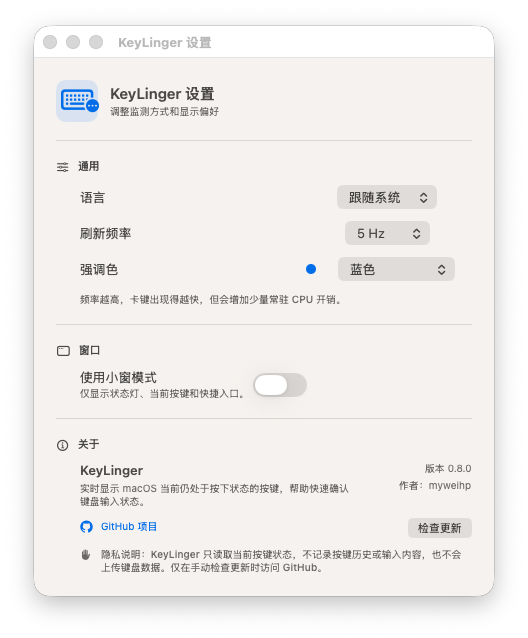
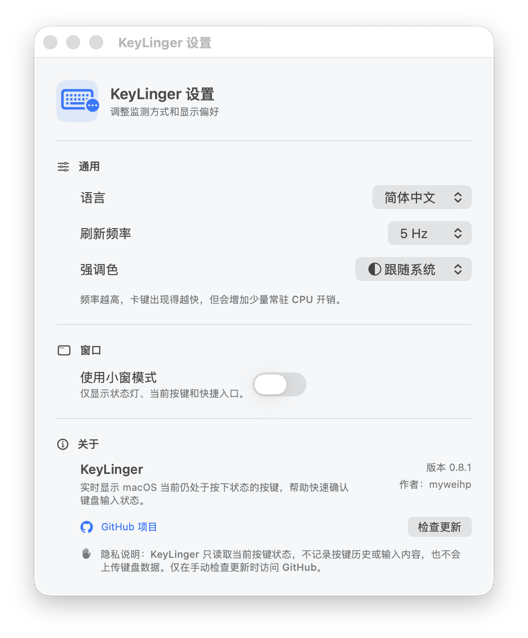
fix: restore reliable menu bar status item

diff --git a/Sources/KeyLinger/AppDelegate.swift b/Sources/KeyLinger/AppDelegate.swift
@@ -75,14 +75,16 @@ final class AppDelegate: NSObject, NSApplicationDelegate, NSWindowDelegate {
     }
 
     private func makeStatusItem() {
-        statusItem = NSStatusBar.system.statusItem(withLength: NSStatusItem.variableLength)
-        let statusImage = NSImage(
-            systemSymbolName: "keyboard",
+        statusItem = NSStatusBar.system.statusItem(withLength: NSStatusItem.squareLength)
+        statusItem.autosaveName = "io.github.myweihp.KeyLinger.status-item"
+        statusItem.button?.image = statusBarImage(
+            systemName: "keyboard",
             accessibilityDescription: "KeyLinger"
         )
-        statusImage?.isTemplate = true
-        statusItem.button?.image = statusImage
-        statusItem.button?.imagePosition = .imageLeading
+        statusItem.button?.imagePosition = .imageOnly
+        statusItem.button?.imageScaling = .scaleProportionallyDown
+        statusItem.button?.setAccessibilityLabel("KeyLinger")
+        statusItem.button?.setAccessibilityIdentifier("io.github.myweihp.KeyLinger.status-item")
 
         let menu = NSMenu()
         showMenuItem = menu.addItem(withTitle: "", action: #selector(showPanel), keyEquivalent: "s")
@@ -158,17 +160,44 @@ final class AppDelegate: NSObject, NSApplicationDelegate, NSWindowDelegate {
         guard statusItem != nil else { return }
         let language = language ?? settings.language
         let count = pressedKeyCount ?? monitor.pressedKeys.count
-        statusItem.button?.title = count == 0 ? "" : " " + String(count)
-        let statusImage = NSImage(
-            systemSymbolName: count == 0 ? "keyboard" : "keyboard.fill",
+        let statusImage = statusBarImage(
+            systemName: count == 0 ? "keyboard" : "keyboard.fill",
             accessibilityDescription: text("app.name", language: language)
         )
-        statusImage?.isTemplate = true
-        statusItem.button?.image = statusImage
+
+        if let statusImage {
+            statusItem.length = count == 0
+                ? NSStatusItem.squareLength
+                : NSStatusItem.variableLength
+            statusItem.button?.title = count == 0 ? "" : " " + String(count)
+            statusItem.button?.image = statusImage
+            statusItem.button?.imagePosition = count == 0 ? .imageOnly : .imageLeading
+        } else {
+            statusItem.length = NSStatusItem.variableLength
+            statusItem.button?.image = nil
+            statusItem.button?.title = count == 0 ? "⌨" : "⌨ " + String(count)
+        }
+
         statusItem.button?.contentTintColor = nil
         statusItem.button?.toolTip = count == 0
             ? text("status.tooltip.normal", language: language)
             : L10n.format("status.tooltip.pressed", language: language, count)
+    }
+
+    private func statusBarImage(
+        systemName: String,
+        accessibilityDescription: String
+    ) -> NSImage? {
+        guard let image = NSImage(
+            systemSymbolName: systemName,
+            accessibilityDescription: accessibilityDescription
+        ) else { return nil }
+
+        let configuration = NSImage.SymbolConfiguration(pointSize: 14, weight: .medium)
+        let configuredImage = image.withSymbolConfiguration(configuration) ?? image
+        configuredImage.isTemplate = true
+        configuredImage.size = NSSize(width: 18, height: 18)
+        return configuredImage
     }
 
     private func updatePermissionMenuItem(language: AppLanguage? = nil) {

diff --git a/Sources/KeyLinger/AppSettings.swift b/Sources/KeyLinger/AppSettings.swift
@@ -50,6 +50,7 @@ final class AppSettings: ObservableObject {
         static let standardViewMode = "standardViewMode"
         static let pollingFrequency = "pollingFrequency"
         static let accentTheme = "accentTheme"
+        static let panelFrame = "NSWindow Frame KeyLingerPanel"
     }
 
     @Published var language: AppLanguage {
@@ -76,34 +77,52 @@ final class AppSettings: ObservableObject {
 
     init(defaults: UserDefaults = .standard) {
         self.defaults = defaults
-        let legacyDefaults = UserDefaults(suiteName: "local.keyboard-status")
+        let previousDefaults = [
+            UserDefaults(suiteName: "local.keylinger"),
+            UserDefaults(suiteName: "local.keyboard-status")
+        ].compactMap { $0 }
+
+        func previousString(forKey key: String) -> String? {
+            previousDefaults.lazy.compactMap { $0.string(forKey: key) }.first
+        }
+
+        func previousValue<T>(forKey key: String, as type: T.Type) -> T? {
+            previousDefaults.lazy.compactMap { $0.object(forKey: key) as? T }.first
+        }
 
         let storedLanguage = defaults.string(forKey: Keys.language)
-            ?? legacyDefaults?.string(forKey: Keys.language)
+            ?? previousString(forKey: Keys.language)
         language = storedLanguage.flatMap(AppLanguage.init(rawValue:)) ?? .system
 
         if let storedCompactMode = defaults.object(forKey: Keys.compactMode) as? Bool {
             compactMode = storedCompactMode
         } else {
-            compactMode = legacyDefaults?.bool(forKey: Keys.compactMode) ?? false
+            compactMode = previousValue(forKey: Keys.compactMode, as: Bool.self) ?? false
         }
 
         let storedStandardViewMode = defaults.string(forKey: Keys.standardViewMode)
+            ?? previousString(forKey: Keys.standardViewMode)
         standardViewMode = storedStandardViewMode.flatMap(StandardViewMode.init(rawValue:)) ?? .keyboard
 
         let storedFrequency = defaults.object(forKey: Keys.pollingFrequency) as? Int
-            ?? legacyDefaults?.object(forKey: Keys.pollingFrequency) as? Int
+            ?? previousValue(forKey: Keys.pollingFrequency, as: Int.self)
         pollingFrequency = storedFrequency.flatMap(PollingFrequency.init(rawValue:)) ?? .balanced
 
         let storedAccentTheme = defaults.string(forKey: Keys.accentTheme)
+            ?? previousString(forKey: Keys.accentTheme)
         accentTheme = storedAccentTheme.flatMap(AccentTheme.init(rawValue:)) ?? .system
 
-        // Preserve preferences when upgrading from the former local.keyboard-status bundle ID.
+        // Preserve preferences across the provisional bundle IDs used by earlier releases.
         defaults.set(language.rawValue, forKey: Keys.language)
         defaults.set(compactMode, forKey: Keys.compactMode)
         defaults.set(standardViewMode.rawValue, forKey: Keys.standardViewMode)
         defaults.set(pollingFrequency.rawValue, forKey: Keys.pollingFrequency)
         defaults.set(accentTheme.rawValue, forKey: Keys.accentTheme)
+
+        if defaults.string(forKey: Keys.panelFrame) == nil,
+           let panelFrame = previousString(forKey: Keys.panelFrame) {
+            defaults.set(panelFrame, forKey: Keys.panelFrame)
+        }
     }
 }
 

diff --git a/Sources/KeyLinger/SettingsView.swift b/Sources/KeyLinger/SettingsView.swift
@@ -6,6 +6,7 @@ struct SettingsView: View {
     @StateObject private var updateChecker = UpdateChecker()
 
     private let projectURL = URL(string: "https://github.com/myweihp/KeyLinger")!
+    private let pickerColumnWidth: CGFloat = 170
 
     var body: some View {
         VStack(alignment: .leading, spacing: 18) {
@@ -52,7 +53,8 @@ struct SettingsView: View {
                     Text("English").tag(AppLanguage.english)
                 }
                 .labelsHidden()
-                .frame(width: 170)
+                .fixedSize()
+                .frame(width: pickerColumnWidth, alignment: .trailing)
             }
 
             settingRow(label: text("settings.frequency")) {
@@ -62,21 +64,19 @@ struct SettingsView: View {
                     }
                 }
                 .labelsHidden()
-                .frame(width: 170)
+                .fixedSize()
+                .frame(width: pickerColumnWidth, alignment: .trailing)
             }
 
             settingRow(label: text("settings.theme")) {
-                HStack(spacing: 8) {
-                    themeSwatch(settings.accentTheme)
-                    Picker("", selection: $settings.accentTheme) {
-                        ForEach(AccentTheme.allCases) { theme in
-                            themeLabel(theme).tag(theme)
-                        }
+                Picker("", selection: $settings.accentTheme) {
+                    ForEach(AccentTheme.allCases) { theme in
+                        themeLabel(theme).tag(theme)
                     }
-                    .labelsHidden()
-                    .frame(width: 145)
                 }
-                .frame(width: 170)
+                .labelsHidden()
+                .fixedSize()
+                .frame(width: pickerColumnWidth, alignment: .trailing)
             }
 
             Text(text("settings.frequencyHint"))
@@ -213,7 +213,7 @@ struct SettingsView: View {
     }
 
     private var appVersion: String {
-        Bundle.main.object(forInfoDictionaryKey: "CFBundleShortVersionString") as? String ?? "0.8.0"
+        Bundle.main.object(forInfoDictionaryKey: "CFBundleShortVersionString") as? String ?? "0.8.1"
     }
 
     private var githubMark: Image {

diff --git a/CHANGELOG.md b/CHANGELOG.md
@@ -1,5 +1,13 @@
 # Changelog
 
+## 0.8.1 — 2026-08-23
+
+- Migrated to the stable `io.github.myweihp.KeyLinger` bundle identifier, preserving existing app preferences.
+- Existing users need to grant Input Monitoring once more after updating because macOS treats the stable bundle identifier as a new app identity.
+- Stabilized the menu bar item with a fixed idle width, an adaptive template symbol, and a reliable pressed-key count.
+- Added a text fallback for systems where the keyboard SF Symbol is unavailable.
+- Aligned all three settings pickers and removed the duplicate accent-color swatch on macOS 26.
+
 ## 0.8.0 — 2026-08-23
 
 - 新增响应式 MacBook/ANSI 键盘 Map，可直观看到被系统判定为按下的键帽。
